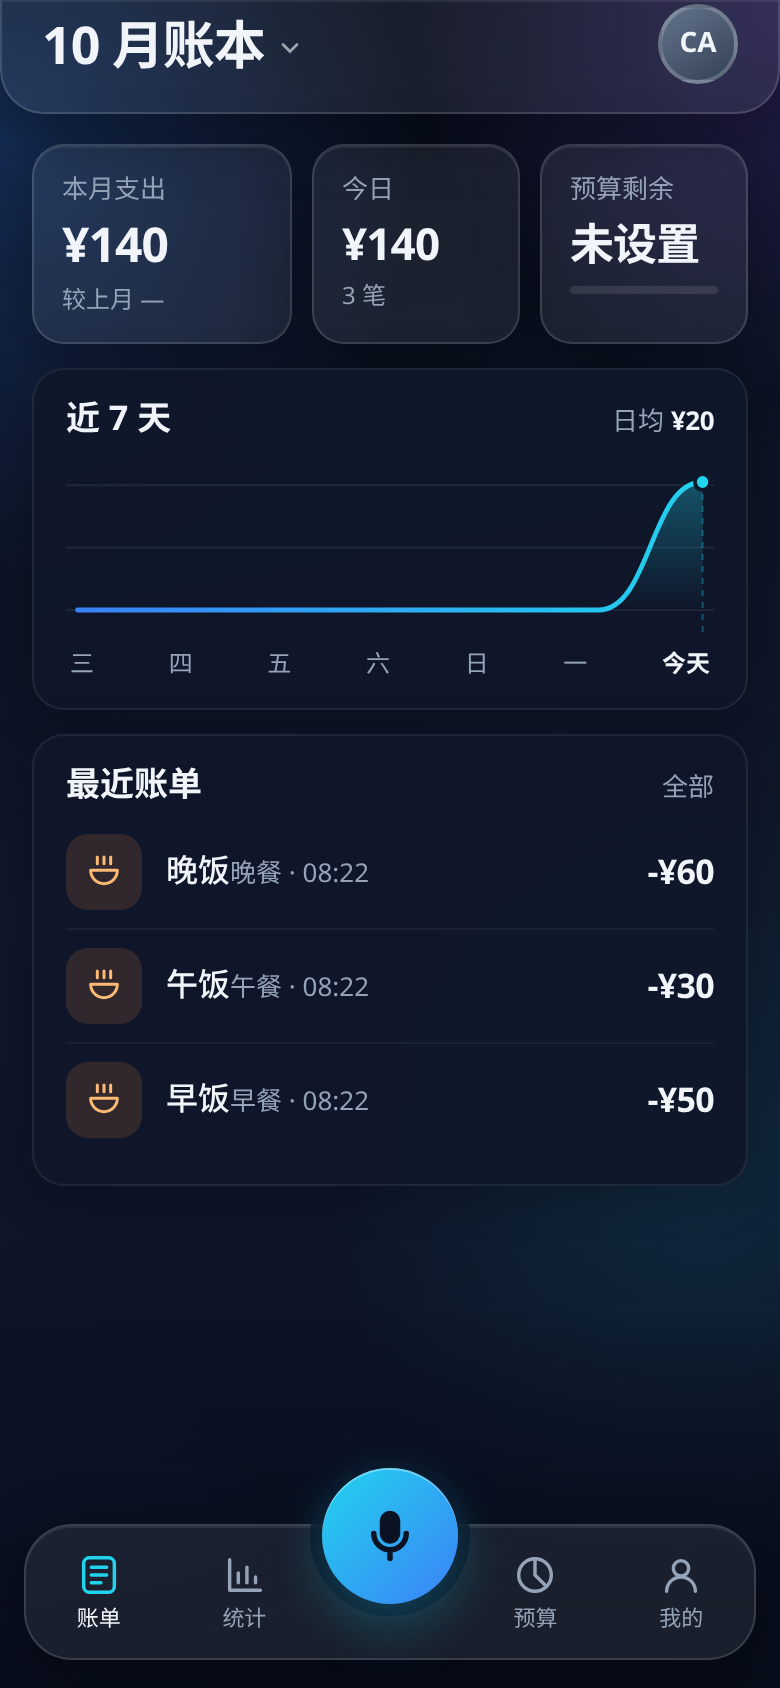
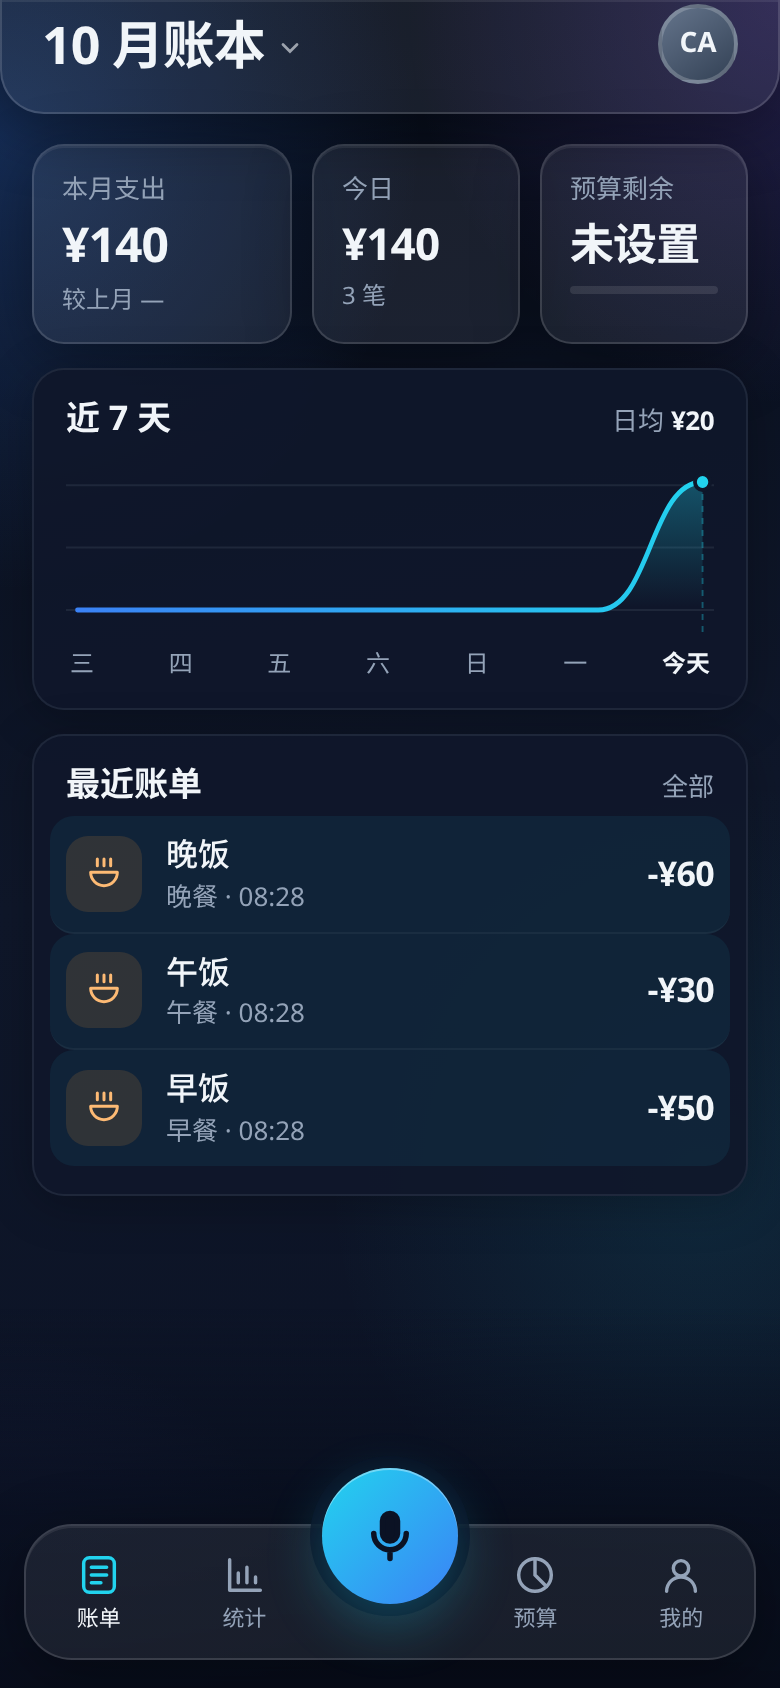
Keep the confirm sheet clear of the list and the tab bar.
The sheet is opaque and sits above the tab bar, the yen stays with its amount, and each home row puts the subcategory on its own line.

diff --git a/app/globals.css b/app/globals.css
@@ -359,6 +359,16 @@ header.top {
 .meta {
   flex: 1;
   min-width: 0;
+  display: flex;
+  flex-direction: column;
+  align-items: flex-start;
+  gap: 2px;
+}
+
+.meta .t,
+.meta .s {
+  display: block;
+  line-height: 1.3;
 }
 
 .meta .t {
@@ -369,7 +379,6 @@ header.top {
 .meta .s {
   font-size: 13px;
   color: var(--muted);
-  margin-top: 2px;
 }
 
 .amt {
@@ -458,19 +467,26 @@ header.top {
   position: absolute;
   inset: 0;
   z-index: 20;
-  background: rgba(4, 8, 18, 0.62);
+  background: rgba(4, 8, 18, 0.72);
+  backdrop-filter: blur(8px);
+  -webkit-backdrop-filter: blur(8px);
 }
 
 .sheet {
+  --sheet-lift: 120px;
   position: absolute;
   left: 8px;
   right: 8px;
-  bottom: calc(8px + var(--safe-bottom));
+  bottom: calc(var(--sheet-lift) + var(--safe-bottom));
   z-index: 21;
   border-radius: 34px;
-  padding: 10px 22px 26px;
-  background: linear-gradient(180deg, rgba(255, 255, 255, 0.09), rgba(255, 255, 255, 0.05));
-  max-height: calc(100% - 24px - var(--safe-top));
+  padding: 10px 22px 22px;
+  background:
+    linear-gradient(180deg, rgba(255, 255, 255, 0.07), transparent 42%),
+    #121b30;
+  backdrop-filter: blur(24px) saturate(1.4);
+  -webkit-backdrop-filter: blur(24px) saturate(1.4);
+  max-height: calc(100% - var(--sheet-lift) - 16px - var(--safe-top) - var(--safe-bottom));
   overflow: auto;
 }
 
@@ -827,18 +843,22 @@ header.top {
 }
 
 .eamt {
-  display: flex;
+  display: inline-flex;
   align-items: baseline;
   justify-content: flex-end;
-  gap: 1px;
+  gap: 0;
   font-size: 16px;
   font-weight: 650;
+  font-variant-numeric: tabular-nums;
 }
 
 .eamt input {
-  width: 4.4em;
-  text-align: right;
+  width: auto;
+  min-width: 1ch;
+  padding: 0;
+  text-align: left;
   font-variant-numeric: tabular-nums;
+  field-sizing: content;
 }
 
 .edel {

diff --git a/components/voice-sheet.tsx b/components/voice-sheet.tsx
@@ -554,6 +554,7 @@ function ConfirmMany({
                     inputMode="decimal"
                     aria-label={`${entry.title || "这笔"}的金额`}
                     value={entry.amount}
+                    style={{ width: `calc(${Math.max(entry.amount.length, 1)}ch + 2px)` }}
                     onChange={(event) => onChange(entry.key, { amount: event.target.value })}
                   />
                 </label>
